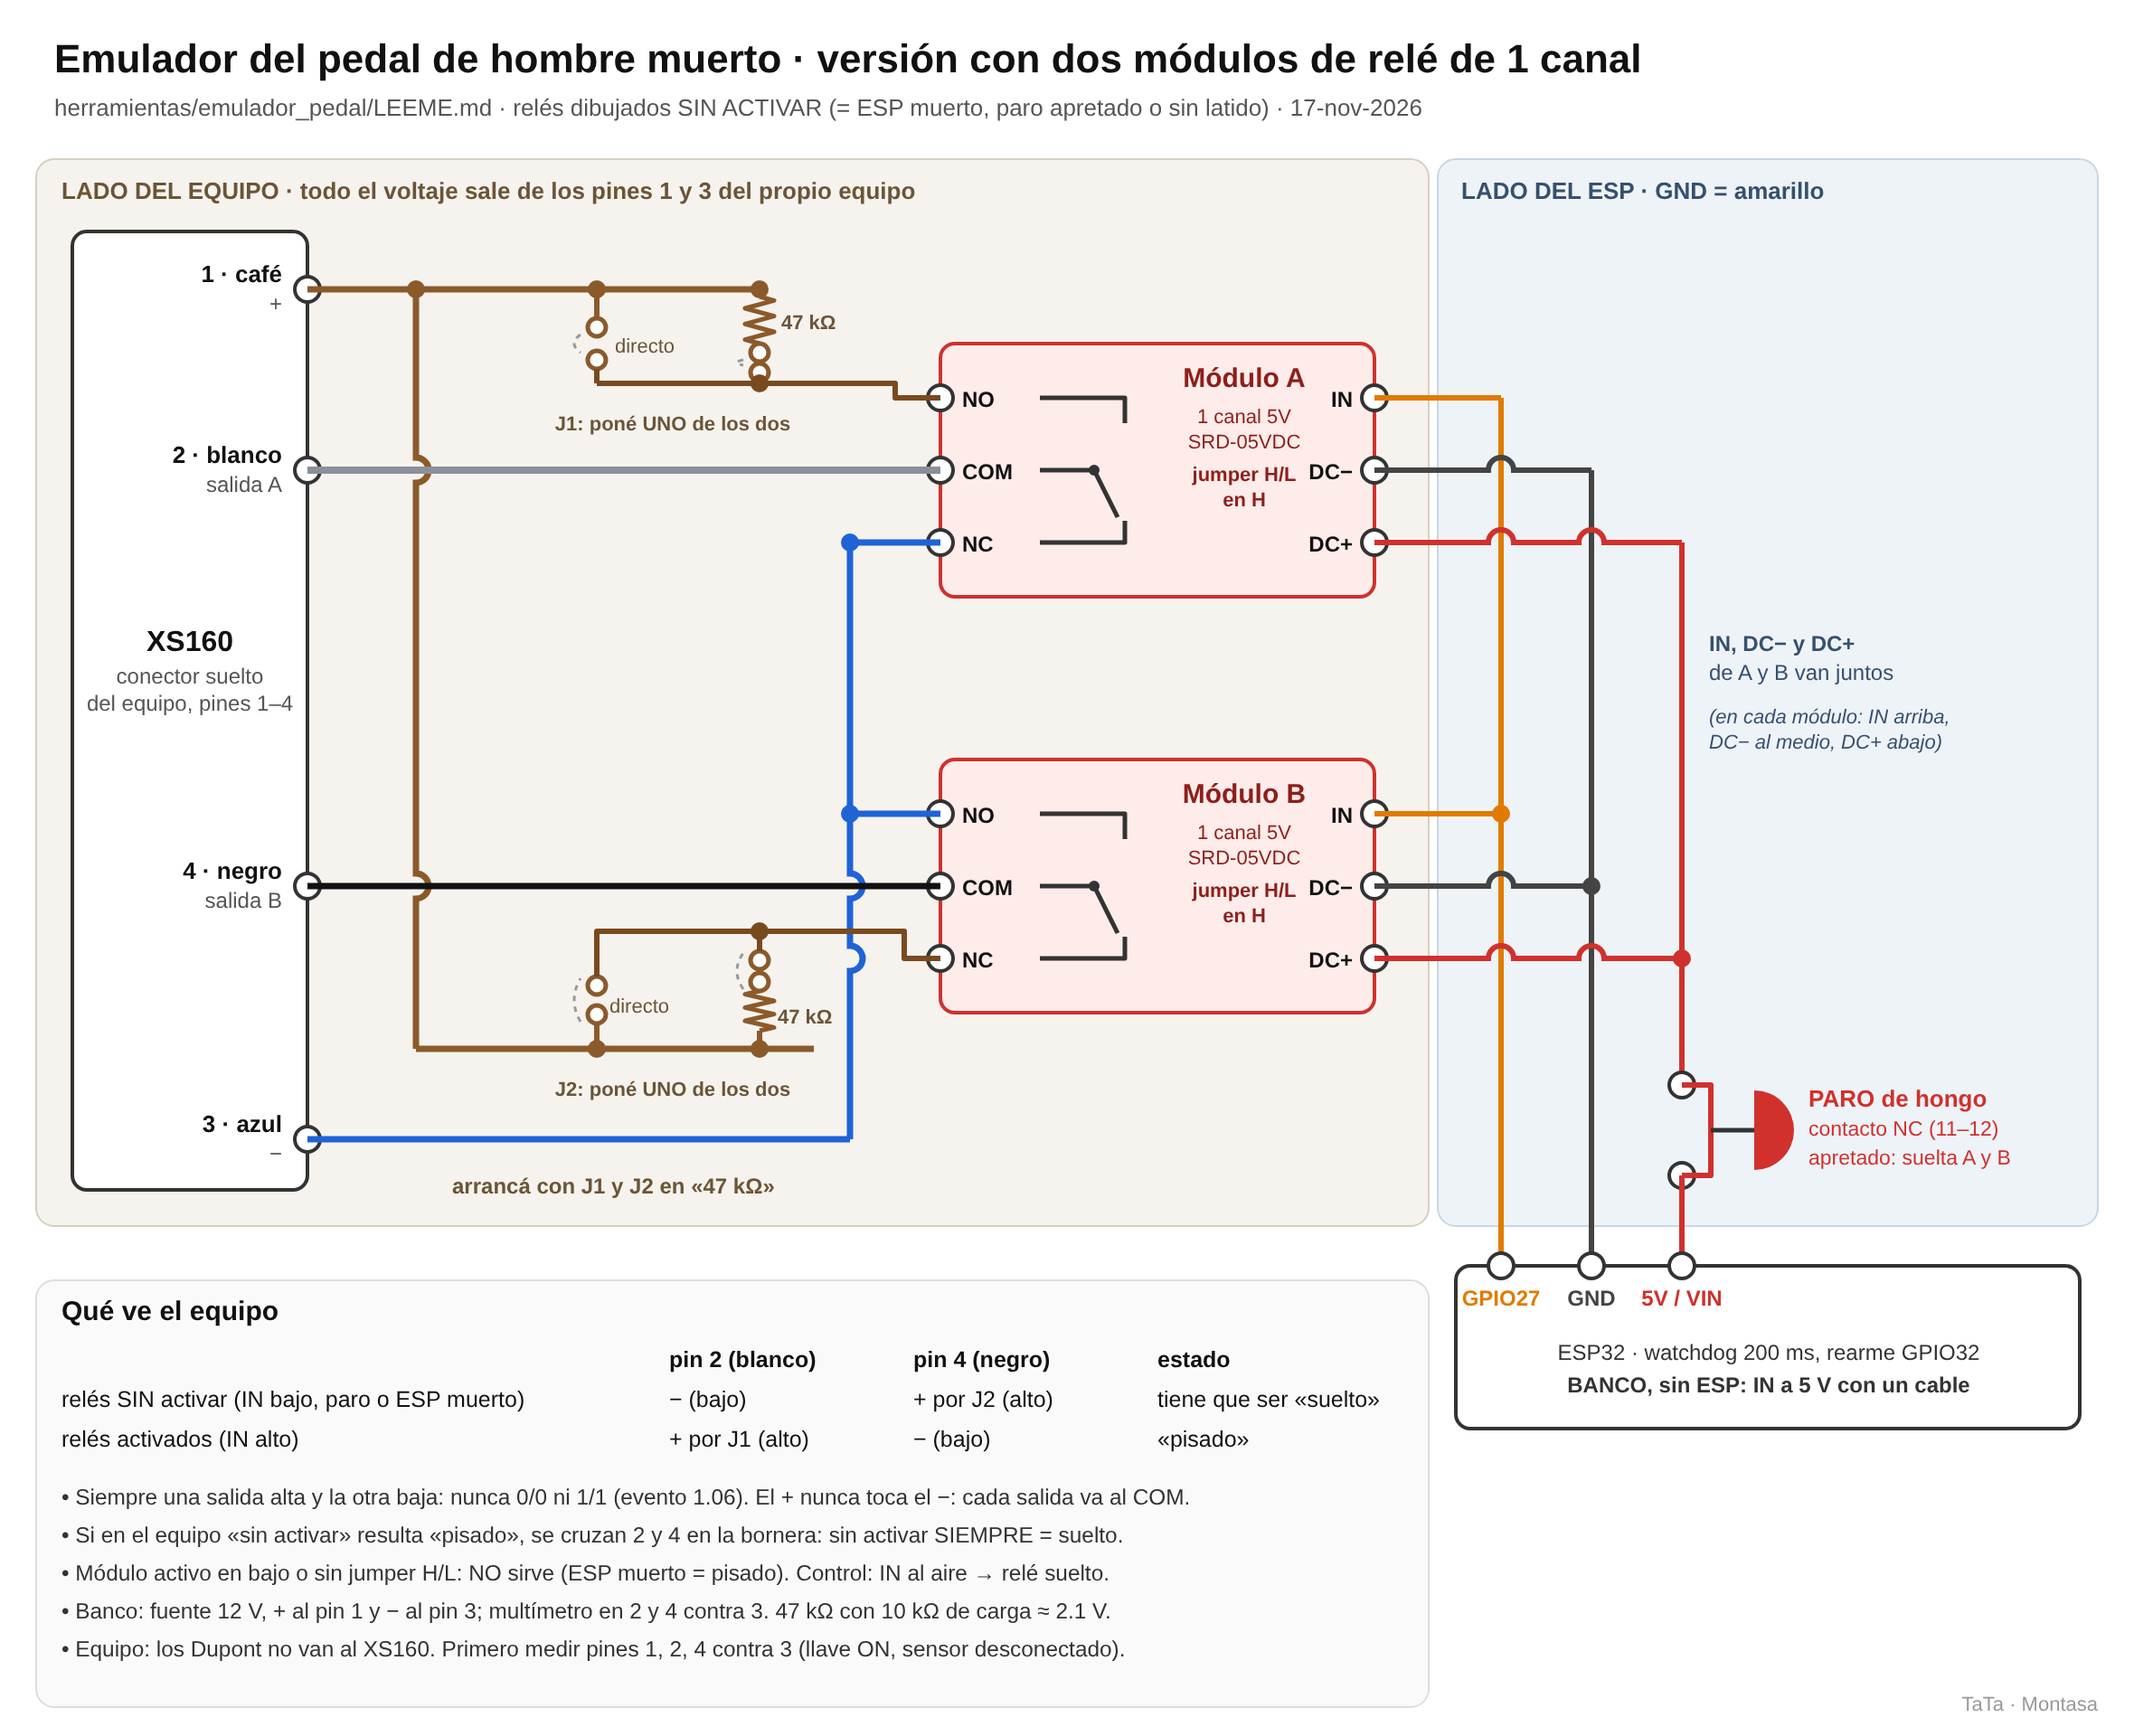
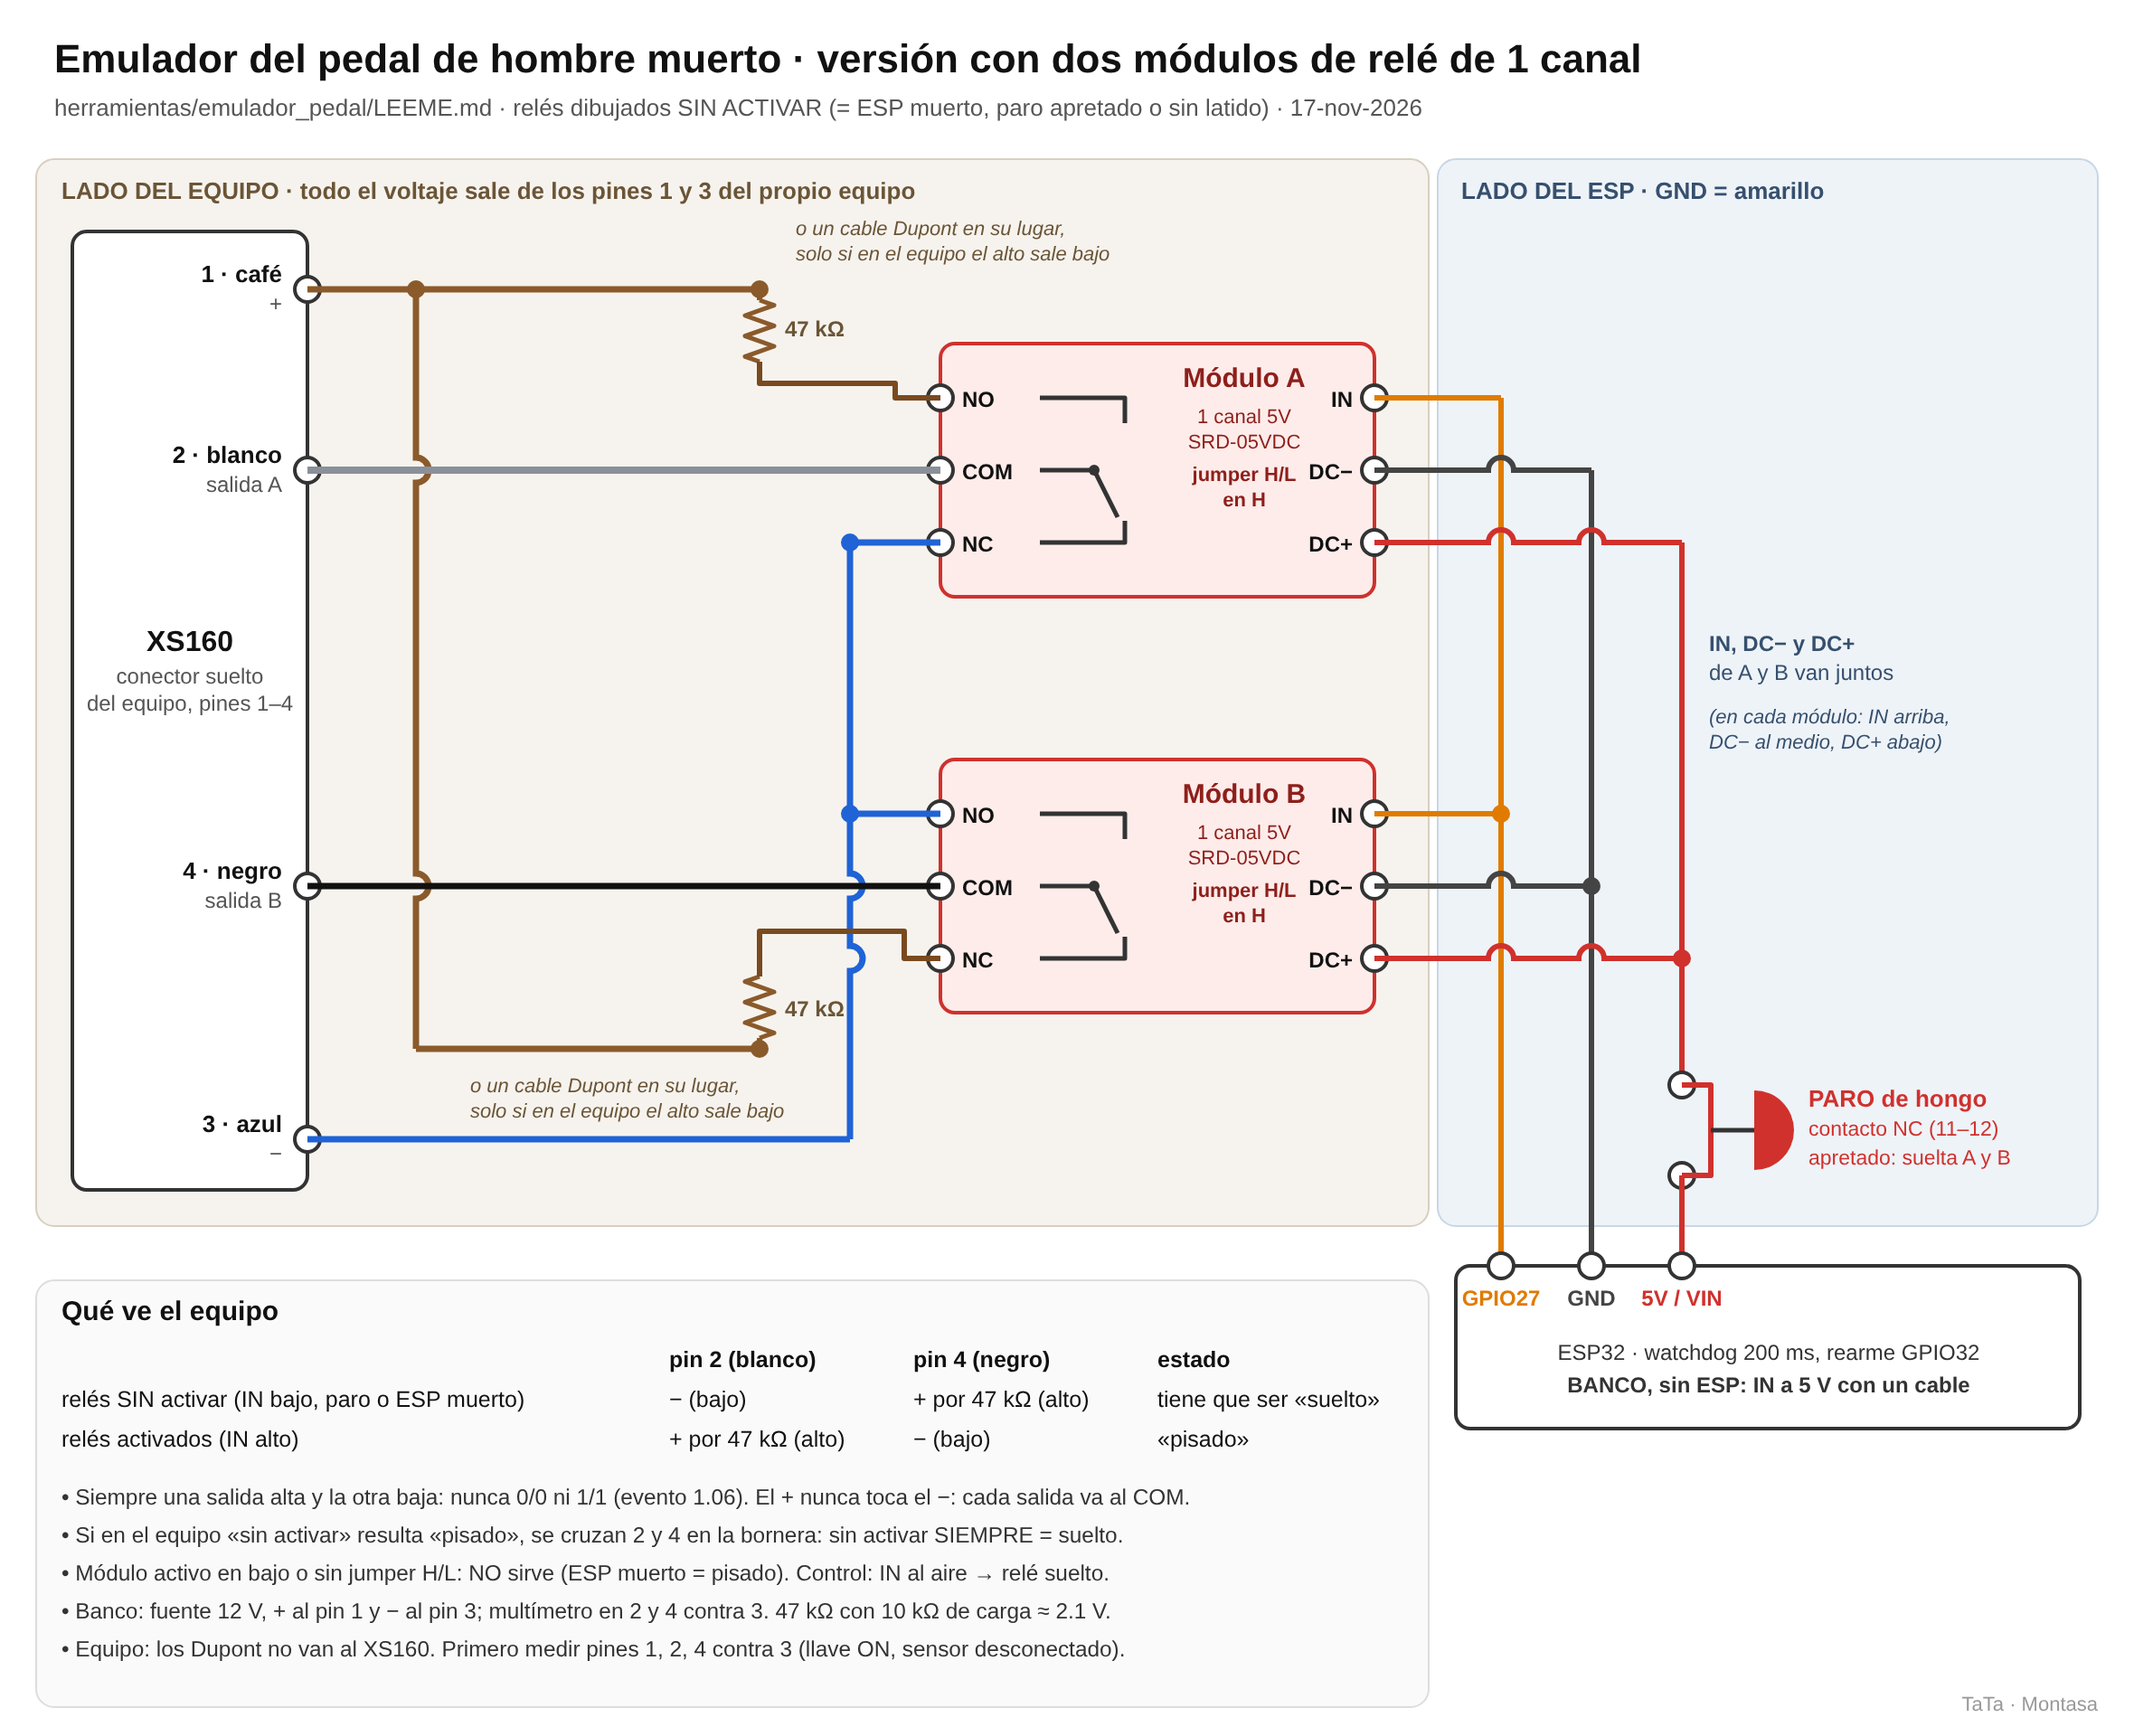
emulador_pedal: J1/J2 = 47k fija; el directo es un Dupont en su lugar, solo si el alto sale bajo en el equipo
Claude-Session: https://claude.ai/code/session_01KLG9KVbY9Gwk6b8JaDsbqA

diff --git a/herramientas/emulador_pedal/dibujar_circuito.py b/herramientas/emulador_pedal/dibujar_circuito.py
@@ -72,7 +72,7 @@ A=modulo(190,'Módulo A'); B=modulo(420,'Módulo B')
 # riel + (café): pin1 -> x=230 vertical hasta 580 ; arriba hasta x=450
 line([P[1],(420,160)],CAFE,3.5); dot(230,160,CAFE)
 vhop(230,160,580,[260,490],CAFE,3.5)
-line([(230,580),(450,580)],CAFE,3.5)
+line([(230,580),(420,580)],CAFE,3.5)
 # riel − (azul): pin3 -> x=470 vertical hasta NC A
 line([P[3],(470,630)],AZUL,3.5)
 vhop(470,630,300,[],AZUL,3.5)  # placeholder, se redibuja con saltos abajo
@@ -84,25 +84,18 @@ line([(470,450),(520,450)],AZUL,3.5); dot(470,450,AZUL)   # NO B al −
 # salidas
 line([P[2],(520,260)],BLANCO,4)    # pin 2 -> COM A (cruza la + en x=230 con salto ya hecho)
 line([P[4],(520,490)],NEGRO,3.5)    # pin 4 -> COM B
-# J1: + (160) -> nodo 212 -> NO A
-line([(330,160),(330,176)],CAFE,3); gapv(330,181,199,CAFE); line([(330,204),(330,212)],'#7a4a1f',3); dot(330,160,CAFE)
-line([(420,160),(420,164)],CAFE,3); resv(420,164,190,CAFE); gapv(420,195,206,CAFE); dot(420,160,CAFE)
-line([(330,212),(495,212),(495,220),(520,220)],'#7a4a1f',3); dot(420,212,'#7a4a1f')
-t(340,195,'directo',11,c='#6b5537'); t(432,182,'47 kΩ',11,w='bold',c='#6b5537')
-t(372,238,'J1: poné UNO de los dos',11,'middle',w='bold',c='#6b5537')
-# J2: + (580) -> NC B (530)
-line([(330,580),(330,566)],CAFE,3); gapv(330,561,545,CAFE); line([(330,540),(330,530)],'#7a4a1f',3); dot(330,580,CAFE)
-line([(420,580),(420,570)],CAFE,3); resv(420,570,548,CAFE); gapv(420,543,531,CAFE); dot(420,580,CAFE)
-line([(420,526),(420,515),(330,515),(330,530)],'#7a4a1f',3)
-line([(420,515),(500,515),(500,530),(520,530)],'#7a4a1f',3)
-O.pop(); O.pop()
-# redibujo J2 más limpio: nodo en y=515
-line([(330,540),(330,515),(500,515),(500,530),(520,530)],'#7a4a1f',3)
-line([(420,526),(420,515)],'#7a4a1f',3); dot(420,515,'#7a4a1f')
-t(337,560,'directo',11,c='#6b5537'); t(430,566,'47 kΩ',11,w='bold',c='#6b5537')
-t(372,606,'J2: poné UNO de los dos',11,'middle',w='bold',c='#6b5537')
-t(250,660,'arrancá con J1 y J2 en «47 kΩ»',12,w='bold',c='#6b5537')
-
+# J1: + (160) -> 47k -> NO A
+line([(420,160),(420,166)],CAFE,3); resv(420,166,200,CAFE); dot(420,160,CAFE)
+line([(420,200),(420,212),(495,212),(495,220),(520,220)],'#7a4a1f',3)
+t(434,186,'47 kΩ',12,w='bold',c='#6b5537')
+t(440,130,'o un cable Dupont en su lugar,',11,c='#6b5537',it=True)
+t(440,144,'solo si en el equipo el alto sale bajo',11,c='#6b5537',it=True)
+# J2: + (580) -> 47k -> NC B
+line([(420,580),(420,574)],CAFE,3); resv(420,574,540,CAFE); dot(420,580,CAFE)
+line([(420,540),(420,515),(500,515),(500,530),(520,530)],'#7a4a1f',3)
+t(434,562,'47 kΩ',12,w='bold',c='#6b5537')
+t(260,604,'o un cable Dupont en su lugar,',11,c='#6b5537',it=True)
+t(260,618,'solo si en el equipo el alto sale bajo',11,c='#6b5537',it=True)
 # lado del ESP: buses
 IN,GN,V5=830,880,930
 line([(760,220),(IN,220)],GPIO,3); line([(760,450),(IN,450)],GPIO,3); dot(IN,450,GPIO)
@@ -135,8 +128,8 @@ y0=720
 a(f'<rect x="20" y="{y0-12}" width="770" height="236" rx="10" fill="#fafafa" stroke="#ddd"/>')
 t(34,y0+10,'Qué ve el equipo',15,w='bold')
 rows=[('','pin 2 (blanco)','pin 4 (negro)','estado'),
-      ('relés SIN activar (IN bajo, paro o ESP muerto)','− (bajo)','+ por J2 (alto)','tiene que ser «suelto»'),
-      ('relés activados (IN alto)','+ por J1 (alto)','− (bajo)','«pisado»')]
+      ('relés SIN activar (IN bajo, paro o ESP muerto)','− (bajo)','+ por 47 kΩ (alto)','tiene que ser «suelto»'),
+      ('relés activados (IN alto)','+ por 47 kΩ (alto)','− (bajo)','«pisado»')]
 xs=[34,370,505,640]
 for i,r in enumerate(rows):
     for x,s in zip(xs,r): t(x,y0+36+i*22,s,12.5,w='bold' if i==0 else 'normal')

diff --git a/herramientas/emulador_pedal/LEEME.md b/herramientas/emulador_pedal/LEEME.md
@@ -68,6 +68,12 @@ rearme con GPIO32). Para el banco no hace falta ESP: la bobina se prende con 5 V
 
 **Esquema: `circuito_modulos.svg`** (y `.png`; lo dibuja `dibujar_circuito.py`).
 
+> **17-nov: J1/J2 ya no son tiras de pines.** Cada uno es **la 47 kΩ fija** entre el pin 1 y el contacto; el
+> «directo» es **un cable Dupont en lugar de la resistencia**, solo si en el equipo el alto sale bajo (medir
+> 2 o 4 contra 3 con el relé en alto: tiene que dar cerca del pin 1). El sensor real usaba 47 k en ese mismo
+> equipo, así que casi seguro queda la resistencia. Las tablas de abajo dicen «centro de J1/J2»: es el
+> extremo de la resistencia del lado del relé.
+
 Es lo más fácil de conseguir. Un polo por módulo, las dos entradas juntas:
 
 | Módulo | COM | NC (sin activar) | NO (activado) |
